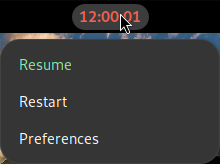
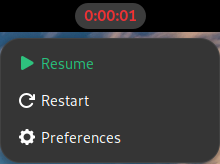
Store integer state values of start and pause times
Reduce string operations

diff --git a/time_tracker_jsnjack@gmail.com/extension.js b/time_tracker_jsnjack@gmail.com/extension.js
@@ -11,7 +11,7 @@ import {
 } from 'resource:///org/gnome/shell/extensions/extension.js';
 import * as PanelMenu from 'resource:///org/gnome/shell/ui/panelMenu.js';
 
-let start_time, start_time_string;
+const getUintTime = (ms = Date.now()) => Math.floor(ms / 1000)
 
 const TimeTracker = GObject.registerClass(
   class TimeTracker extends PanelMenu.Button {
@@ -32,12 +32,29 @@ const TimeTracker = GObject.registerClass(
       this.actor.add_actor(this._label);
 
       // Get start_time from settings
-      start_time_string = this._settings.get_string('start-time');
-      start_time = new Date(start_time_string);
+      this._startTime = this._settings.get_uint('state-start-time');
+
+      // TODO: remove on version 27 - migration logic
+      if (!this._startTime) {
+        const oldString = this._settings.get_string('start-time');
+        if (oldString) {
+          const date = new Date(oldString);
+          if (!isNaN(date.getHours())) {
+            this._startTime = getUintTime(date.getTime());
+            this._settings.set_uint('state-start-time', this._startTime);
+          }
+          this._settings.set_string('start-time', '');
+
+          this._settings.set_uint('state-pause-start-time', getUintTime((new Date(
+            this._settings.get_string('pause-start-time'))).getTime() || 0));
+
+          this._settings.set_int('pause-duration', getUintTime(this._settings.get_int('pause-duration')));
+        }
+      }
       // If creation of Date object failed, create a new one
-      if (isNaN(start_time.getHours())) {
-        start_time = new Date();
-        this._settings.set_string('start-time', start_time.toString());
+      if (!this._startTime) {
+        this._startTime = getUintTime();
+        this._settings.set_uint('state-start-time', this._startTime);
       }
       this._timeout = GLib.timeout_add(1000, GLib.PRIORITY_LOW, () => {
         this.refresh();
@@ -91,12 +108,11 @@ const TimeTracker = GObject.registerClass(
     refresh () {
       // Get difference between start time and current time
       // and show it
-      let current_time = new Date(),
-        difference, timer;
-      // Check if start_time needs update:
+      let current_time = getUintTime(),
+        timer;
+      // Check if start-time needs update:
       if (this._settings.get_boolean('update-start-time')) {
-        start_time_string = this._settings.get_string('start-time');
-        start_time = new Date(start_time_string);
+        this._startTime = this._settings.get_uint('state-start-time');
         this._settings.set_boolean('update-start-time', false);
       }
       // Check if indicator style needs update:
@@ -104,19 +120,18 @@ const TimeTracker = GObject.registerClass(
         this.updateIndicatorStyle();
         this._settings.set_boolean('update-indicator-style', false);
       }
-      // If in pause, than show the difference between start_time and pause-start-time
+      // If in pause, than show the difference between start-time and pause-start-time
       if (this._settings.get_boolean('paused')) {
-        current_time = new Date(this._settings.get_string('pause-start-time'));
+        current_time = this._settings.get_uint('state-pause-start-time');
       }
       // Get difference between two times in secs
-      difference = Math.round(
-        (current_time - start_time - this._settings.get_int('pause-duration')) /
-        1000);
-      const hours = parseInt(difference / 3600, 10);
+      let difference =
+        (current_time - this._startTime - this._settings.get_int('pause-duration'));
+      const hours = Math.floor(difference / 3600);
       if (hours !== 0) {
         difference = difference - hours * 3600;
       }
-      const mins = parseInt(difference / 60, 10);
+      const mins = Math.floor(difference / 60);
       if (mins !== 0) {
         difference = difference - mins * 60;
       }
@@ -132,18 +147,15 @@ const TimeTracker = GObject.registerClass(
 
     onToggle () {
       // Handle pause button
-      let state = this._settings.get_boolean('paused'),
-        current_time, pause_start_time;
+      let state = this._settings.get_boolean('paused');
+      const current_time = getUintTime();
       if (!state) {
         // Pause timer
-        current_time = new Date();
-        this._settings.set_string('pause-start-time', current_time.toString());
+        this._settings.set_uint('state-pause-start-time', current_time);
         this._settings.set_boolean('paused', true);
       } else {
         // Resume timer
-        current_time = new Date();
-        pause_start_time = new Date(
-          this._settings.get_string('pause-start-time'));
+        const pause_start_time = this._settings.get_uint('state-pause-start-time');
         this._settings.set_int('pause-duration',
           this._settings.get_int('pause-duration') +
           (current_time - pause_start_time));
@@ -153,8 +165,8 @@ const TimeTracker = GObject.registerClass(
     }
 
     onReset () {
-      start_time = new Date();
-      this._settings.set_string('start-time', start_time.toString());
+      this._startTime = getUintTime();
+      this._settings.set_uint('state-start-time', this._startTime);
       this._settings.set_int('pause-duration', 0);
       this._settings.set_boolean('paused', false);
       this.updateIndicatorStyle();

diff --git a/time_tracker_jsnjack@gmail.com/prefs.js b/time_tracker_jsnjack@gmail.com/prefs.js
@@ -20,11 +20,11 @@ const AdjustTimePage = GObject.registerClass(
       });
       this.settings = settings;
       this.initialPause = settings.get_int('pause-duration');
-      this.initialStartTime = new Date(settings.get_string('start-time'));
+      this.initialStartTime = settings.get_uint('state-start-time');
 
       this.groupAdjustStartTime = new Adw.PreferencesGroup({
         title: _('Adjust start time'),
-        description: _('Start time: ') + this.initialStartTime.toLocaleString(),
+        description: _('Start time: ') + (new Date(this.initialStartTime * 1000)).toLocaleString(),
       });
 
       this.spinHoursStart = new Adw.SpinRow({
@@ -59,7 +59,7 @@ const AdjustTimePage = GObject.registerClass(
         title: _('Adjust pause duration'),
       });
 
-      const pauseDuration = settings.get_int('pause-duration') / 1000;
+      const pauseDuration = settings.get_int('pause-duration');
       this.spinHoursPause = new Adw.SpinRow({
         title: _('Hours'),
         adjustment: new Gtk.Adjustment({
@@ -96,15 +96,13 @@ const AdjustTimePage = GObject.registerClass(
       const hours = this.spinHoursStart.get_value();
       const mins = this.spinMinStart.get_value();
       // Replace old start-time date with the new one
-      const change = hours * 60 * 60 * 1000 + mins * 60 * 1000;
-      const new_start_time_obj = new Date(
-        this.initialStartTime.getTime() + change);
-      this.settings.set_string('start-time', new_start_time_obj.toString());
+      const change = hours * 60 * 60 + mins * 60;
+      this.settings.set_uint('state-start-time', this.initialStartTime + change);
       // Mark time for update
       this.settings.set_boolean('update-start-time', true);
 
       this.groupAdjustStartTime.description = _('Start time: ') +
-        new_start_time_obj.toLocaleString();
+        (new Date((this.initialStartTime + change) * 1000)).toLocaleString();
     }
 
     _adjustPause () {
@@ -112,7 +110,7 @@ const AdjustTimePage = GObject.registerClass(
       const mins = this.spinMinPause.get_value();
 
       // Update pause-duration
-      const change = hours * 60 * 60 * 1000 + mins * 60 * 1000;
+      const change = hours * 60 * 60 + mins * 60;
       this.settings.set_int('pause-duration', this.initialPause + change);
       // Mark time for update
       this.settings.set_boolean('update-start-time', true);
